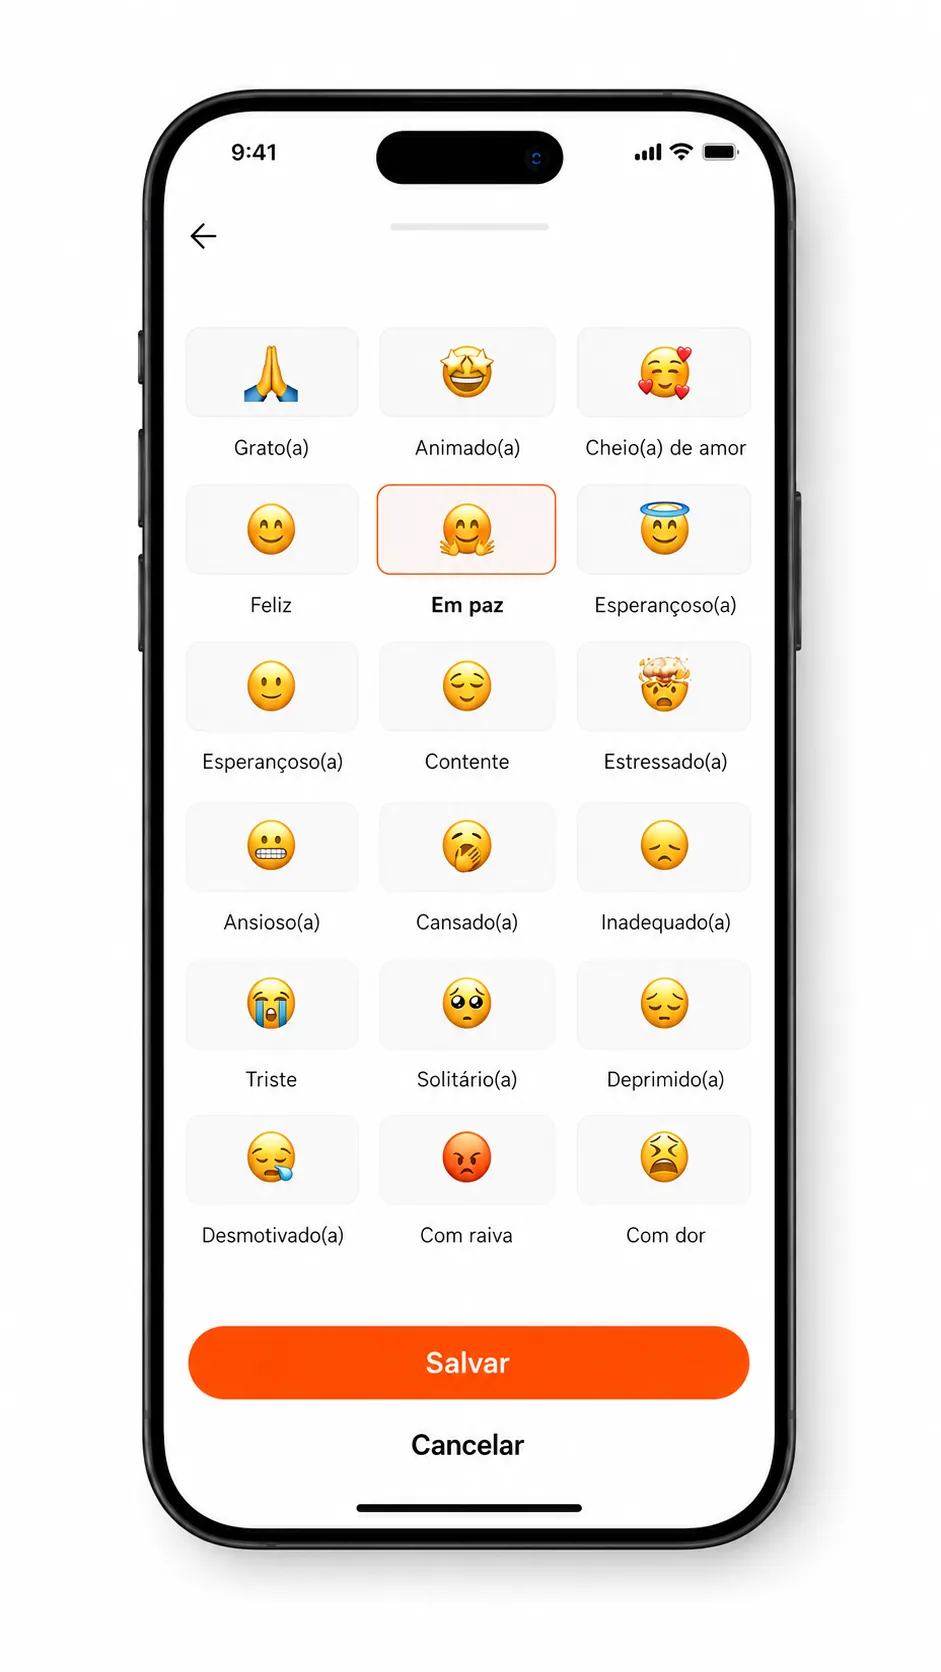
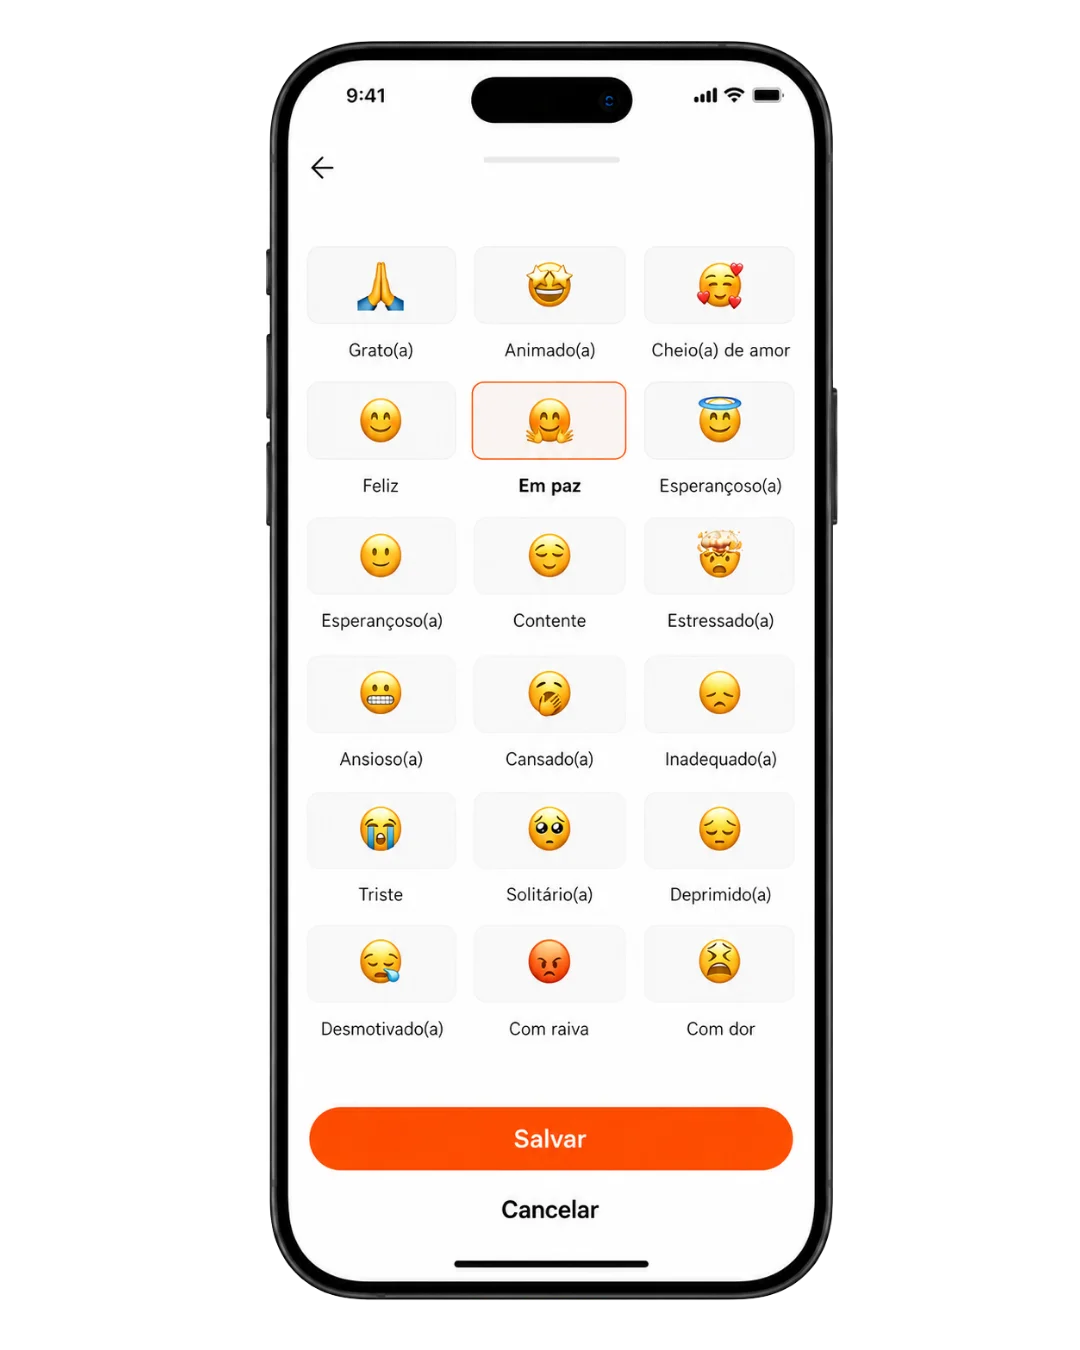
feat: update screen1 with new version, cache bust ?v=2

Changed region(s): [[0.1233, 0.0311, 0.8937, 0.9644]]

diff --git a/index.html b/index.html
@@ -4341,7 +4341,7 @@
               <span class="fe-cover-cap">Humor</span>
               <div class="fe-phone">
                 <div class="fe-phone-notch"></div>
-                <div class="fe-phone-screen"><picture><source srcset="screen1.avif" type="image/avif"/><source srcset="screen1.webp" type="image/webp"/><img src="screen1.png" alt="Tela de humor e sentimento do dia no app U.GO — acompanhe bem-estar e foco" loading="lazy" decoding="async"/></picture></div>
+                <div class="fe-phone-screen"><picture><source srcset="screen1.avif?v=2" type="image/avif"/><source srcset="screen1.webp?v=2" type="image/webp"/><img src="screen1.png?v=2" alt="Tela de humor e sentimento do dia no app U.GO — acompanhe bem-estar e foco" loading="lazy" decoding="async"/></picture></div>
               </div>
             </article>
             <article class="fe-cover-item" data-i="3">